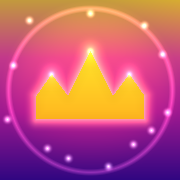
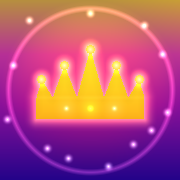
Darken background to deep violet + upgrade crown to 5-peak with orbs and gems
Background: dark violet (#1a0432) now dominant; pink sunset reduced to upper accent; golden glow subtle upper-right only; deep violet fills most screen for readability

Crown: upgraded from 3 to 5 peaks (outer shorter, inner medium, center tallest); metallic orbs on all 5 peak tips; 3 jewels set into band (yellow center, pink sides); band-top highlight simulates metal catching light; edge shadow adds 3D depth

diff --git a/src/styles/index.css b/src/styles/index.css
@@ -28,31 +28,31 @@ body {
   font-weight: 300;
   color: var(--text);
   min-height: 100vh;
-  background: #180628; /* deep purple base — sunset layers bloom over this */
+  background: #1a0432; /* deep dark violet — base layer */
   overflow-x: hidden;
 }
 
-/* ─── SUNSET BACKGROUND — golden sky · pink horizon · purple twilight ─── */
+/* ─── SUNSET BACKGROUND — dark violet dominant · pink accent · gold hint ─── */
 .bg-layer {
   position: fixed;
   inset: 0;
   z-index: 0;
   background:
-    /* Golden sun — upper sky */
-    radial-gradient(ellipse 95% 52% at 50% 0%, rgba(255,215,52,0.70) 0%, rgba(255,178,42,0.38) 42%, transparent 68%),
-    /* Yellow-orange right glow */
-    radial-gradient(ellipse 52% 46% at 98% 20%, rgba(255,165,38,0.58) 0%, transparent 62%),
-    /* Sunset pink band — the warm horizon (dominant pink) */
-    radial-gradient(ellipse 100% 55% at 50% 52%, rgba(248,68,148,0.72) 0%, rgba(225,52,125,0.42) 40%, transparent 68%),
-    /* Hot pink left bloom */
-    radial-gradient(ellipse 60% 58% at 0% 55%, rgba(255,58,142,0.58) 0%, transparent 65%),
-    /* Deep purple twilight — lower half (adds darkness for readability) */
-    radial-gradient(ellipse 100% 58% at 50% 100%, rgba(72,5,115,0.80) 0%, rgba(52,2,88,0.52) 44%, transparent 70%),
-    /* Purple depth — sides */
-    radial-gradient(ellipse 40% 85% at 0% 68%, rgba(62,0,100,0.48) 0%, transparent 65%),
-    radial-gradient(ellipse 40% 85% at 100% 68%, rgba(62,0,100,0.48) 0%, transparent 65%),
-    /* Deep sunset base */
-    linear-gradient(178deg, #180628 0%, #2e0828 28%, #380a2c 52%, #180628 100%);
+    /* Subtle golden glow — upper right only, like sunset peeking */
+    radial-gradient(ellipse 50% 38% at 88% 12%, rgba(255,205,50,0.32) 0%, rgba(255,165,38,0.14) 44%, transparent 65%),
+    /* Pink sunset blush — upper area accent */
+    radial-gradient(ellipse 80% 40% at 50% 2%, rgba(228,65,145,0.50) 0%, rgba(205,50,122,0.24) 38%, transparent 63%),
+    /* Soft pink bloom — left edge */
+    radial-gradient(ellipse 48% 50% at 0% 44%, rgba(215,52,135,0.35) 0%, transparent 60%),
+    /* Dark violet — dominant, fills most of the screen */
+    radial-gradient(ellipse 95% 70% at 50% 56%, rgba(72,8,130,0.88) 0%, rgba(52,4,98,0.62) 44%, transparent 72%),
+    /* Deep violet — bottom (maximum readability) */
+    radial-gradient(ellipse 100% 55% at 50% 100%, rgba(55,4,105,0.95) 0%, rgba(38,2,78,0.70) 44%, transparent 70%),
+    /* Violet depth — both sides */
+    radial-gradient(ellipse 38% 90% at 0% 68%, rgba(60,4,108,0.75) 0%, transparent 65%),
+    radial-gradient(ellipse 38% 90% at 100% 68%, rgba(60,4,108,0.75) 0%, transparent 65%),
+    /* Rich dark violet base */
+    linear-gradient(175deg, #1a0432 0%, #280542 25%, #2e0838 50%, #1a0432 100%);
   animation: bgDream 20s ease-in-out infinite alternate;
 }
 @keyframes bgDream {
@@ -63,16 +63,16 @@ body {
   100% { opacity: 0.96; }
 }
 
-/* Drifting aurora — golden and pink bands float slowly */
+/* Drifting aurora — very subtle gold and pink over dark violet */
 .bg-aurora {
   position: fixed;
   inset: 0;
   z-index: 0;
   pointer-events: none;
   background:
-    radial-gradient(ellipse 75% 32% at 65% 22%, rgba(255,208,55,0.16) 0%, transparent 60%),
-    radial-gradient(ellipse 65% 38% at 25% 50%, rgba(255,72,148,0.18) 0%, transparent 60%),
-    radial-gradient(ellipse 55% 30% at 78% 75%, rgba(148,18,108,0.14) 0%, transparent 60%);
+    radial-gradient(ellipse 72% 28% at 62% 18%, rgba(255,205,52,0.10) 0%, transparent 60%),
+    radial-gradient(ellipse 62% 34% at 22% 46%, rgba(218,62,142,0.12) 0%, transparent 60%),
+    radial-gradient(ellipse 52% 26% at 78% 74%, rgba(90,8,148,0.14) 0%, transparent 60%);
   animation: auroraDrift 28s ease-in-out infinite alternate;
 }
 @keyframes auroraDrift {
@@ -82,30 +82,27 @@ body {
   100% { opacity: 0.90; transform: translate(6px, -4px); }
 }
 
-/* Soft cloud wisps — warm peach-apricot tones at sunset */
+/* Soft cloud wisps — warm peach-apricot, lower portion */
 .cloud-layer {
   position: fixed;
   inset: 0;
   z-index: 0;
   pointer-events: none;
   background:
-    /* Large base clouds — warm apricot-white */
-    radial-gradient(ellipse 70% 24% at 18% 98%, rgba(255,235,210,0.40) 0%, rgba(255,215,190,0.20) 50%, transparent 70%),
-    radial-gradient(ellipse 55% 20% at 55% 100%, rgba(255,228,208,0.36) 0%, rgba(255,218,195,0.18) 50%, transparent 70%),
-    radial-gradient(ellipse 50% 22% at 85% 97%, rgba(255,232,212,0.38) 0%, rgba(248,218,200,0.18) 50%, transparent 70%),
-    /* Mid wisps — pink-peach */
-    radial-gradient(ellipse 40% 14% at 30% 84%, rgba(255,222,200,0.22) 0%, transparent 70%),
-    radial-gradient(ellipse 35% 12% at 68% 82%, rgba(255,218,205,0.20) 0%, transparent 70%),
-    radial-gradient(ellipse 25% 10% at 90% 78%, rgba(255,225,208,0.17) 0%, transparent 70%),
-    /* High wisps — blush-gold */
-    radial-gradient(ellipse 30% 8%  at 12% 70%, rgba(255,228,195,0.14) 0%, transparent 70%),
-    radial-gradient(ellipse 20% 7%  at 75% 68%, rgba(255,220,198,0.12) 0%, transparent 70%);
+    radial-gradient(ellipse 70% 24% at 18% 98%, rgba(255,232,208,0.32) 0%, rgba(255,212,188,0.15) 50%, transparent 70%),
+    radial-gradient(ellipse 55% 20% at 55% 100%, rgba(255,225,205,0.28) 0%, rgba(255,215,192,0.12) 50%, transparent 70%),
+    radial-gradient(ellipse 50% 22% at 85% 97%, rgba(255,228,210,0.30) 0%, rgba(248,215,198,0.14) 50%, transparent 70%),
+    radial-gradient(ellipse 40% 14% at 30% 84%, rgba(255,218,198,0.16) 0%, transparent 70%),
+    radial-gradient(ellipse 35% 12% at 68% 82%, rgba(255,215,202,0.14) 0%, transparent 70%),
+    radial-gradient(ellipse 25% 10% at 90% 78%, rgba(255,222,205,0.12) 0%, transparent 70%),
+    radial-gradient(ellipse 30% 8%  at 12% 70%, rgba(255,225,195,0.10) 0%, transparent 70%),
+    radial-gradient(ellipse 20% 7%  at 75% 68%, rgba(255,218,196,0.09) 0%, transparent 70%);
   animation: cloudGlow 30s ease-in-out infinite alternate;
 }
 @keyframes cloudGlow {
-  0%   { opacity: 0.78; }
+  0%   { opacity: 0.75; }
   50%  { opacity: 1; }
-  100% { opacity: 0.84; }
+  100% { opacity: 0.82; }
 }
 
 /* Star/sparkle field */
@@ -122,8 +119,8 @@ body {
   background: white;
   box-shadow:
     0 0 3px 1px rgba(255,255,255,0.85),
-    0 0 8px 2px rgba(255,228,98,0.62),
-    0 0 14px 4px rgba(255,175,218,0.28);
+    0 0 8px 2px rgba(255,225,95,0.55),
+    0 0 14px 4px rgba(255,172,215,0.25);
   animation: sparkleTwinkle ease-in-out infinite;
 }
 @keyframes sparkleTwinkle {